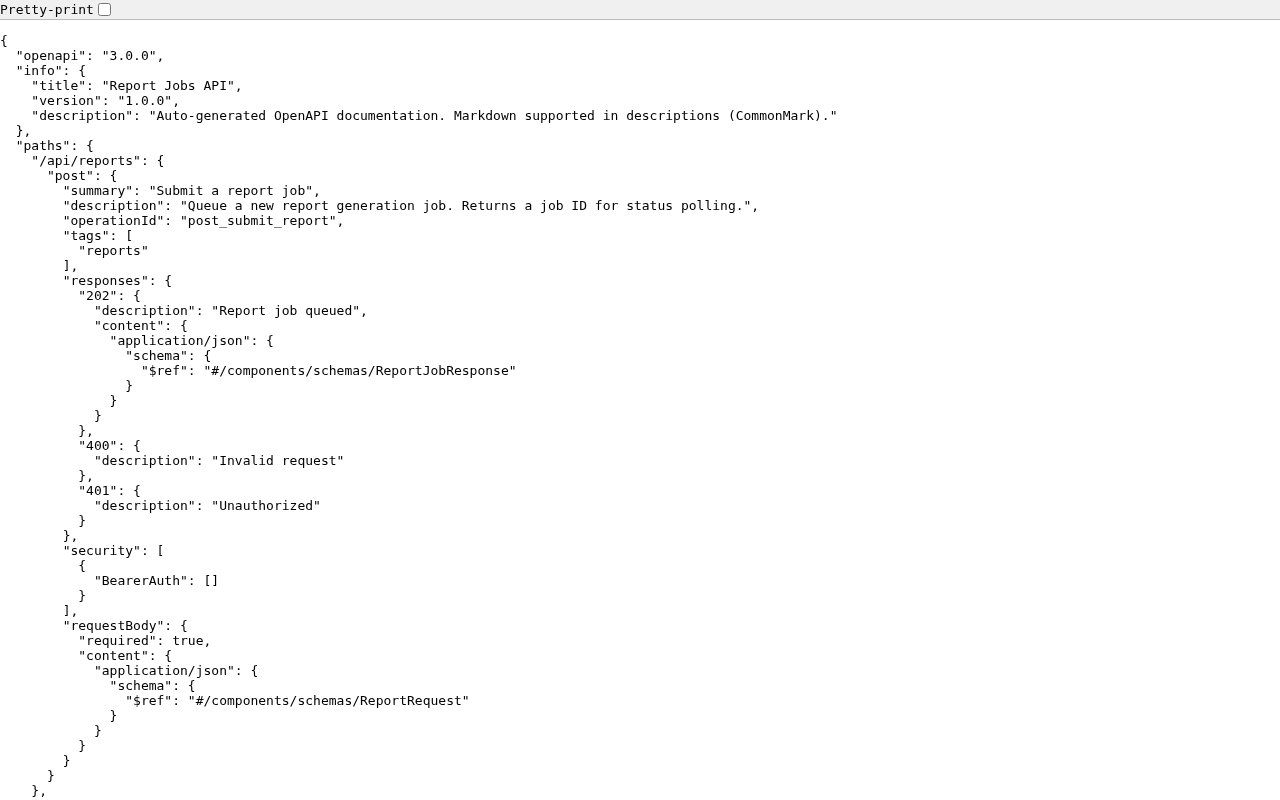
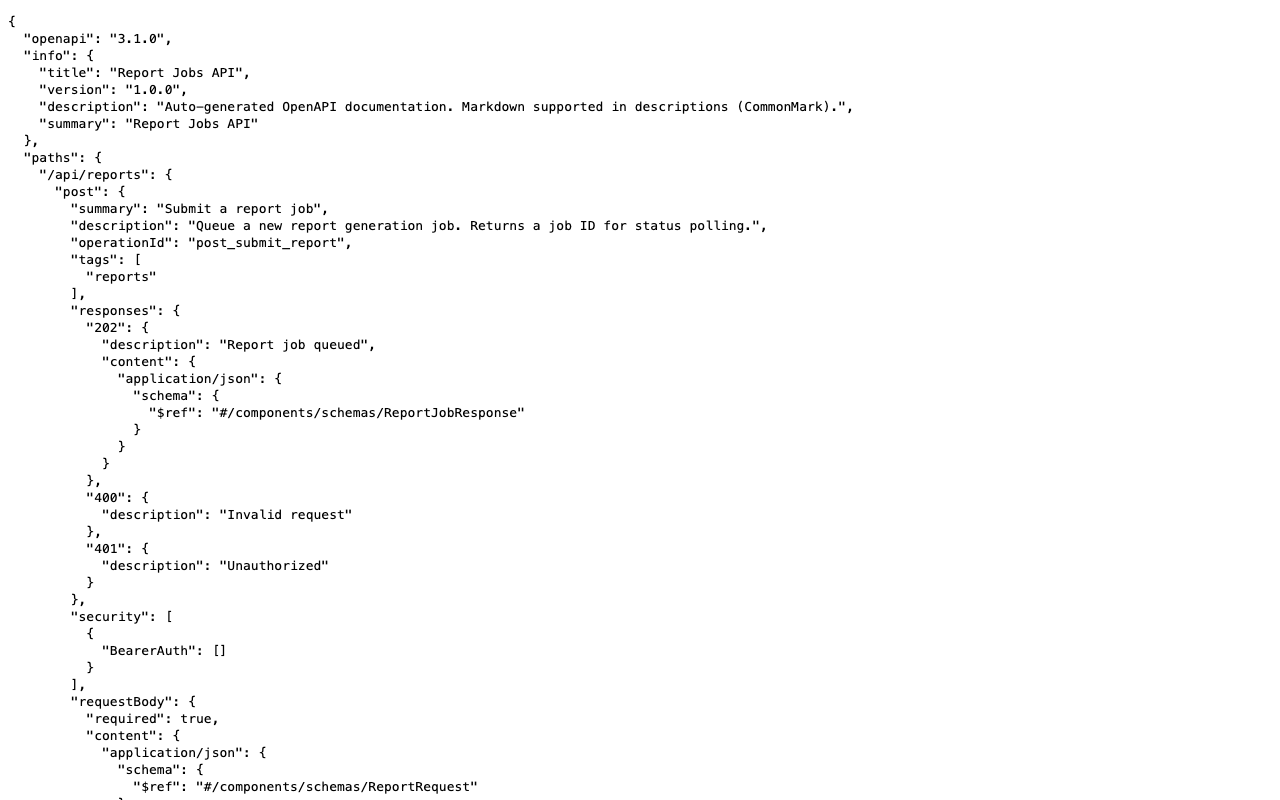
docs: recapture OpenAPI previews with real output and align docs (#456)
Recapture all docs/assets Swagger UI and spec previews from actual
example runs (OAS 3.1, no PII). Rename hello_* previews to
webhook_receiver_* to match the representative example they were
already generated from, and drop orphan images for the removed hello
and todo_crud examples.

- Add demo/serve_preview.py static server (avoids http.server
  getfqdn hang) and point Makefile demo targets at it.
- Update README (4 langs), getting-started, and usage image
  references; repoint usage.md preview to partner_import_bridge.
- Remove redundant DX Toolkit teaser paragraph from README.md.

diff --git a/demo/serve_preview.py b/demo/serve_preview.py
@@ -1,0 +1,40 @@
+"""Minimal static file server for demo screenshot capture.
+
+Usage:
+    python demo/serve_preview.py <port> <directory>
+
+Why this exists instead of ``python -m http.server``:
+    ``http.server.HTTPServer.server_bind`` calls ``socket.getfqdn(host)`` at
+    bind time. On hosts with slow or misconfigured reverse-DNS this blocks for
+    a long time before the server ever starts serving, so Playwright times out
+    connecting to ``127.0.0.1`` and screenshot capture fails. Serving through a
+    plain ``socketserver.TCPServer`` skips the ``getfqdn`` lookup entirely and
+    binds immediately, keeping ``make demo`` reproducible across machines.
+"""
+
+from __future__ import annotations
+
+import functools
+from http.server import SimpleHTTPRequestHandler
+import socketserver
+import sys
+
+
+def main() -> None:
+    if len(sys.argv) != 3:
+        raise SystemExit("Usage: python demo/serve_preview.py <port> <directory>")
+
+    port = int(sys.argv[1])
+    directory = sys.argv[2]
+    handler = functools.partial(SimpleHTTPRequestHandler, directory=directory)
+
+    class Server(socketserver.TCPServer):
+        allow_reuse_address = True
+
+    with Server(("127.0.0.1", port), handler) as httpd:
+        print(f"serving {directory} on http://127.0.0.1:{port}", flush=True)
+        httpd.serve_forever()
+
+
+if __name__ == "__main__":
+    main()

diff --git a/docs/getting-started.md b/docs/getting-started.md
@@ -172,9 +172,9 @@ Fetch YAML spec:
 curl "http://localhost:7071/api/openapi.yaml"
 ```
 
-The generated spec is served as a JSON document — the same format a client generator reads to produce SDKs:
+The generated spec is served as a JSON document — the same format a client generator reads to produce SDKs. The preview below is captured from the representative `webhook_receiver` example, which documents a richer API than this walkthrough:
 
-![OpenAPI spec preview for the Hello API generated from the @openapi decorator](assets/hello_openapi_spec_preview.png)
+![OpenAPI spec preview generated from the representative webhook_receiver example](assets/webhook_receiver_openapi_spec_preview.png)
 
 ## View Swagger UI
 
@@ -182,14 +182,9 @@ Open:
 
 `http://localhost:7071/api/docs`
 
-You should see:
+You should see your operation with its summary, description, parameters, and response schema. The Swagger UI preview below is captured from the representative `webhook_receiver` example:
 
-- one operation (`http_trigger`)
-- operation summary and description
-- query parameter `name`
-- response schema generated from `HelloResponse`
-
-![Swagger UI showing the Hello API with the greetUser GET operation, query parameter, and response schema](assets/hello_openapi_swagger_ui_preview.png)
+![Swagger UI preview generated from the representative webhook_receiver example](assets/webhook_receiver_openapi_swagger_ui_preview.png)
 
 ## Next steps
 

diff --git a/README.md b/README.md
@@ -17,11 +17,6 @@ Read this in: [한국어](README.ko.md) | [日本語](README.ja.md) | [简体中
 
 OpenAPI (Swagger) documentation and Swagger UI for the **Azure Functions Python v2 programming model**.
 
----
-
-Part of the **Azure Functions Python DX Toolkit**
-→ Bring FastAPI-like developer experience to Azure Functions
-
 ## Why this exists
 
 Azure Functions Python v2 has no built-in API documentation story:
@@ -357,13 +352,13 @@ The representative `webhook_receiver` example shows the full outcome of adopting
 
 The generated OpenAPI file is captured as a static preview from the same example run, so the README shows the actual document produced by the representative function.
 
-![OpenAPI spec preview](docs/assets/hello_openapi_spec_preview.png)
+![OpenAPI spec preview](docs/assets/webhook_receiver_openapi_spec_preview.png)
 
 ### Swagger UI Result
 
 The web preview below is generated from the same representative example and captured automatically from the rendered Swagger UI page produced by that example flow.
 
-![OpenAPI Swagger UI preview](docs/assets/hello_openapi_swagger_ui_preview.png)
+![OpenAPI Swagger UI preview](docs/assets/webhook_receiver_openapi_swagger_ui_preview.png)
 
 ## When to use
 

diff --git a/README.ja.md b/README.ja.md
@@ -280,13 +280,13 @@ func start
 
 生成された OpenAPI ファイルは、同じサンプル実行から静的プレビューとして取得されています。そのため、この README には代表的な関数が実際に生成したドキュメントが表示されます。
 
-![OpenAPI spec preview](docs/assets/hello_openapi_spec_preview.png)
+![OpenAPI spec preview](docs/assets/webhook_receiver_openapi_spec_preview.png)
 
 ### Swagger UI Result
 
 以下の Web プレビューも同じ代表サンプルから生成されており、そのフローで作られた Swagger UI ページを自動的にレンダリングして取得したものです。
 
-![OpenAPI Swagger UI preview](docs/assets/hello_openapi_swagger_ui_preview.png)
+![OpenAPI Swagger UI preview](docs/assets/webhook_receiver_openapi_swagger_ui_preview.png)
 
 ## Documentation
 

diff --git a/README.ko.md b/README.ko.md
@@ -280,13 +280,13 @@ func start
 
 생성된 OpenAPI 파일은 같은 예제 실행 결과에서 정적 미리보기로 캡처되었습니다. 따라서 이 README에는 대표 함수가 실제로 생성한 문서가 그대로 표시됩니다.
 
-![OpenAPI spec preview](docs/assets/hello_openapi_spec_preview.png)
+![OpenAPI spec preview](docs/assets/webhook_receiver_openapi_spec_preview.png)
 
 ### Swagger UI Result
 
 아래 웹 미리보기 역시 같은 대표 예제에서 생성되었으며, 해당 예제 흐름이 만든 Swagger UI 페이지를 자동으로 렌더링해 캡처한 결과입니다.
 
-![OpenAPI Swagger UI preview](docs/assets/hello_openapi_swagger_ui_preview.png)
+![OpenAPI Swagger UI preview](docs/assets/webhook_receiver_openapi_swagger_ui_preview.png)
 
 ## Documentation
 

diff --git a/README.zh-CN.md b/README.zh-CN.md
@@ -280,13 +280,13 @@ func start
 
 生成的 OpenAPI 文件来自同一次示例运行，并被捕获为静态预览。因此，此 README 展示的就是代表性函数实际生成的文档。
 
-![OpenAPI spec preview](docs/assets/hello_openapi_spec_preview.png)
+![OpenAPI spec preview](docs/assets/webhook_receiver_openapi_spec_preview.png)
 
 ### Swagger UI Result
 
 下面的网页预览也来自同一个代表性示例，并由该示例流程生成的 Swagger UI 页面自动渲染和截图得到。
 
-![OpenAPI Swagger UI preview](docs/assets/hello_openapi_swagger_ui_preview.png)
+![OpenAPI Swagger UI preview](docs/assets/webhook_receiver_openapi_swagger_ui_preview.png)
 
 ## Documentation
 

diff --git a/docs/usage.md b/docs/usage.md
@@ -356,7 +356,7 @@ def docs(req: func.HttpRequest) -> func.HttpResponse:
     )
 ```
 
-![Swagger UI showing multiple API operations grouped by tags](assets/todo_crud_api_swagger_ui_preview.png)
+![Swagger UI showing multiple API operations grouped by tags](assets/partner_import_bridge_swagger_ui.png)
 
 If your deployment needs stricter or custom CSP:
 
